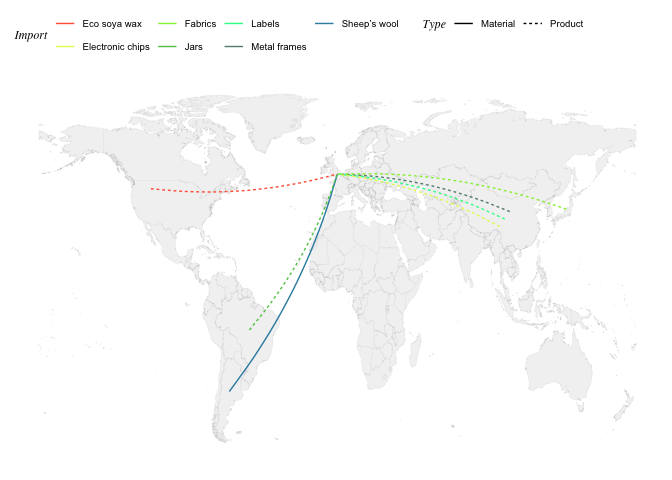
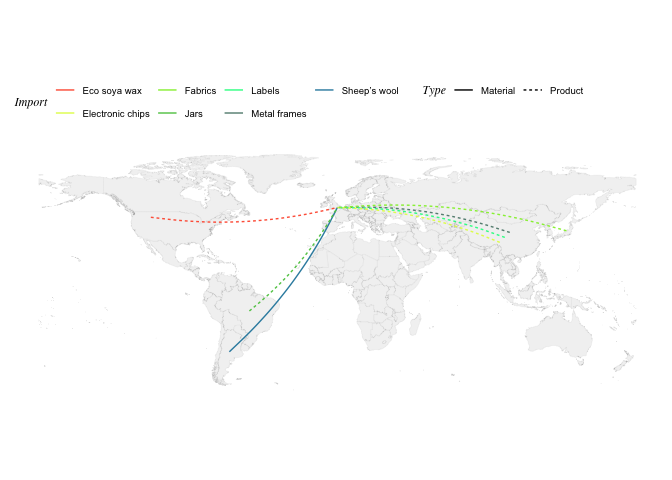
draft to report

diff --git a/Flowmap.md b/Flowmap.md
@@ -45,7 +45,7 @@ library(rworldxtra)
 
 #### Part I: Prepare de dataset
 
-###### 1. Load .csv file with 'From' and 'To' information
+###### 1. ç 'From' and 'To' information
 
 ``` r
 Mwf <- read_csv("/Volumes/ucfnnap-1/COM/material_world_flow.csv")
@@ -268,7 +268,7 @@ ggplot() + bmap + conn_cont + coord_cartesian(xlim=xlim2, ylim=ylim2) +
 
 ![](Flowmap_files/figure-markdown_github/unnamed-chunk-18-1.png)
 
-###### 18. Next we can create the 'International' map with similar aesthetics.
+###### 18. Next we can create the 'International' map with similar aesthetics. We also use the function coord\_equal to improve the look of the map
 
 ``` r
 conn_int <- geom_curve(data = odm_int, aes(x = x.y, y = y.y, xend = xend, yend = yend, color=Import, linetype=Type), curvature = 0.1)
@@ -280,7 +280,105 @@ L_bmap <- geom_polygon(data= L_mapworld_df, aes(long,lat, group=group), fill="gr
 ggplot() + L_bmap + conn_int + coord_cartesian() + ylim(ylim3) +
   theme_map() + 
   scale_color_manual(values = com8) + 
+  theme(legend.position="top", legend.title = element_text(face = "italic", family = "serif")) +
+  coord_equal()
+```
+
+    ## Coordinate system already present. Adding new coordinate system, which will replace the existing one.
+
+![](Flowmap_files/figure-markdown_github/unnamed-chunk-19-1.png)
+
+### Section Two
+
+In this section we'll anaylise the market of the ['Smartibot'](https://www.kickstarter.com/projects/460355237/smartibot-the-worlds-first-ai-enabled-cardboard-ro?ref=nav_search&result=project&term=smartibot), a high-tech product that was designed and prototyped in 'Machines Room'.
+
+###### Preparing the data
+
+###### 1. We collected the data on the top 10 backers's countries from the project website on kikstarter. Load .csv files with this information
+
+``` r
+sbb <- read_csv("sb_backers.csv")
+head(sbb)
+```
+
+    ## # A tibble: 6 x 6
+    ##   `To(end)` From           Backers  yend    xend Region       
+    ##   <chr>     <chr>            <int> <dbl>   <dbl> <chr>        
+    ## 1 Hackney   United Kingdom     292  51.5 -0.0604 Continental  
+    ## 2 Hackney   United States      280  51.5 -0.0604 International
+    ## 3 Hackney   Germany            107  51.5 -0.0604 Continental  
+    ## 4 Hackney   Australia           46  51.5 -0.0604 International
+    ## 5 Hackney   France              43  51.5 -0.0604 Continental  
+    ## 6 Hackney   Netherlands         39  51.5 -0.0604 Continental
+
+###### 2. We can now merge this dataframe with the centroids. However this time we'll use a list from [Socrata](https://opendata.socrata.com/dataset/Country-List-ISO-3166-Codes-Latitude-Longitude/mnkm-8ram)
+
+``` r
+socra <- read_csv("https://opendata.socrata.com/resource/mnkm-8ram.csv")
+
+sbb_od <- merge(sbb, socra, by.x="From", by.y="Country", all.x=T)
+
+# Change columns name
+names(sbb_od)[11] <- "x"
+names(sbb_od)[10] <- "y"
+head(sbb_od)
+```
+
+    ##        From To(end) Backers     yend     xend        Region Alpha-2 code
+    ## 1 Australia Hackney      46 51.54032 -0.06039 International           AU
+    ## 2    Canada Hackney      26 51.54032 -0.06039 International           CA
+    ## 3    France Hackney      43 51.54032 -0.06039   Continental           FR
+    ## 4   Germany Hackney     107 51.54032 -0.06039   Continental           DE
+    ## 5     Italy Hackney      29 51.54032 -0.06039 International           IT
+    ## 6     Japan Hackney      33 51.54032 -0.06039 International           JP
+    ##   Alpha-3 code Numeric code        y        x Icon
+    ## 1          AUS           36 -27.0000 133.0000 <NA>
+    ## 2          CAN          124  60.0000 -95.0000 <NA>
+    ## 3          FRA          250  46.0000   2.0000 <NA>
+    ## 4          DEU          276  51.0000   9.0000 <NA>
+    ## 5          ITA          380  42.8333  12.8333 <NA>
+    ## 6          JPN          392  36.0000 138.0000 <NA>
+
+###### 3. Now it is possible to create the geom\_curve object for the 'sbb\_od' dataframe. We set the size of lines according to 'Backers'
+
+``` r
+sbb_conn <- geom_curve(data = sbb_od, aes(x = x, y = y, xend = xend, yend = yend, size=Backers), curvature = 0.1)
+bmap <- geom_polygon(data= L_mapworld_df, aes(long,lat, group=group), fill="white")
+
+ggplot() + bmap + sbb_conn
+```
+
+![](Flowmap_files/figure-markdown_github/unnamed-chunk-22-1.png)
+
+###### 4. Let's try to zoom into Europe. We first modify the alpha value to have a clearer picture of the lines tha overlap. Then we customized the bmap
+
+``` r
+sbb_conn <- geom_curve(data = sbb_od,
+                       aes(x = x, y = y, xend = xend, yend = yend, size=Backers), alpha = 0.5,
+                           colour ="#2bfd94", curvature = 0.1)
+
+bmap <- geom_polygon(data= mapworld_df, aes(long,lat, group=group), fill="grey95", colour="grey65", size=0.03)
+
+ggplot() + bmap + sbb_conn + coord_cartesian(xlim=xlim2, ylim=ylim2) +
+  scale_size_continuous(limits = c(0,300), breaks = c(30, 50, 100, 200)) +
   theme(legend.position="top", legend.title = element_text(face = "italic", family = "serif"))
 ```
 
-![](Flowmap_files/figure-markdown_github/unnamed-chunk-19-1.png)
+![](Flowmap_files/figure-markdown_github/unnamed-chunk-23-1.png)
+
+###### 4. One last step before using the theme\_map function, is to label the curves that end outside of the plot.
+
+``` r
+can <- geom_text(aes(x=-11, y=52, label = "Canada"), size=2.7)
+us <- geom_text(aes(x=-11, y=49.5, label = "US"), size=2.7)
+jap <- geom_text(aes(x=40, y=50.5, label = "Japan"), size=2.7)
+aus <- geom_text(aes(x=35, y=35, label = "Australia"), size=2.7)
+
+scsc <- scale_size_continuous(limits = c(0,300), breaks = c(30, 50, 100, 200))
+tema <- theme(legend.position="top", legend.title = element_text(face = "italic", family = "serif"))
+
+ggplot() + bmap + sbb_conn + coord_cartesian(xlim=xlim2, ylim=ylim2) +
+  scsc + theme_map() + tema + can + us + jap + aus
+```
+
+![](Flowmap_files/figure-markdown_github/unnamed-chunk-24-1.png)
